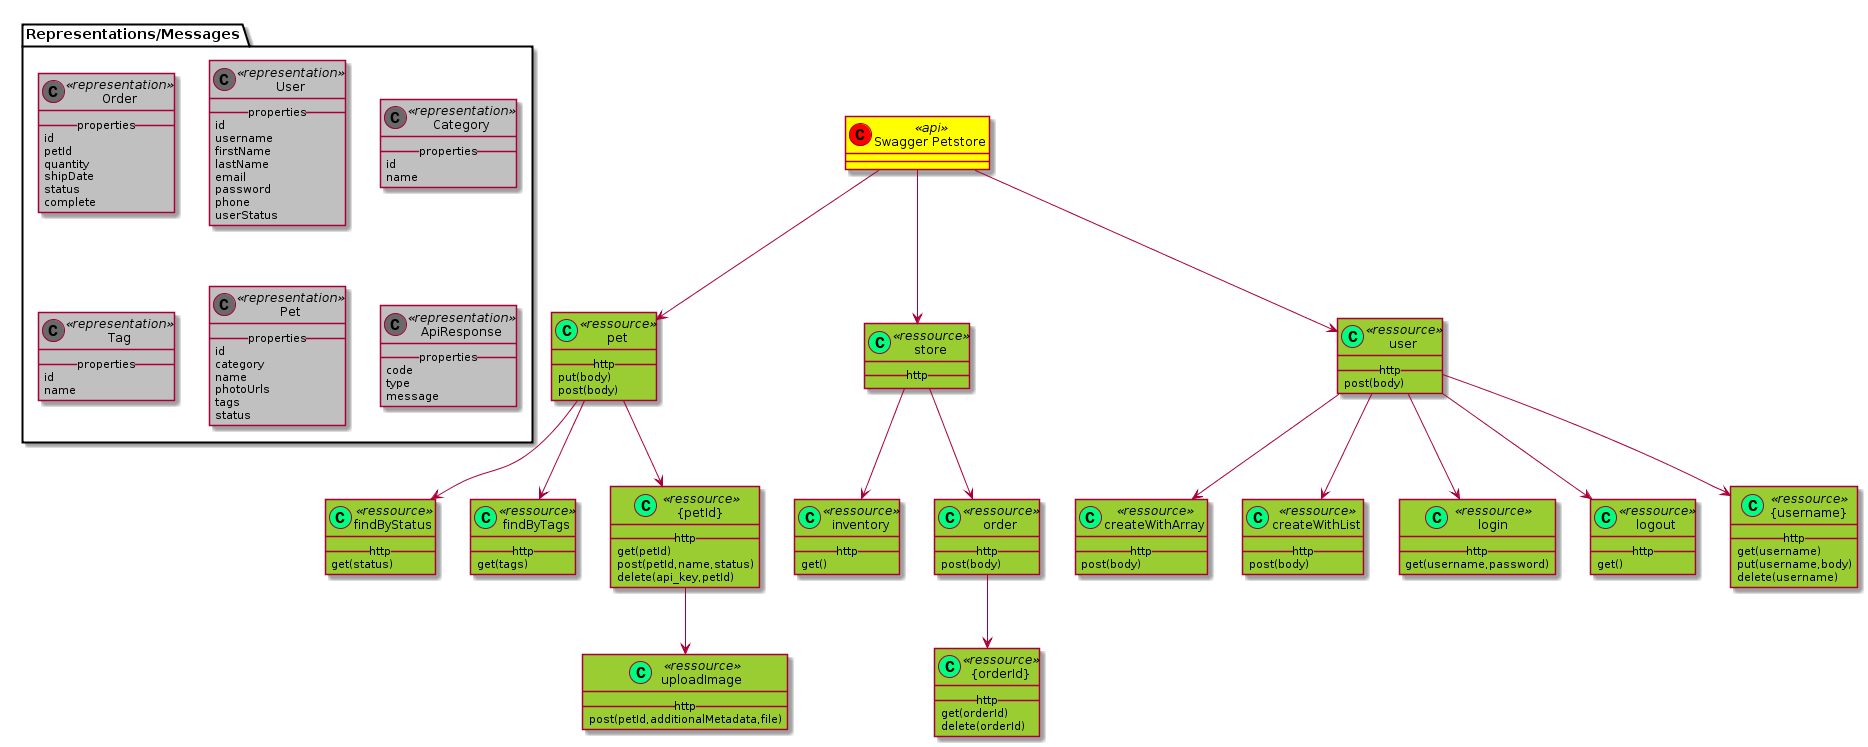
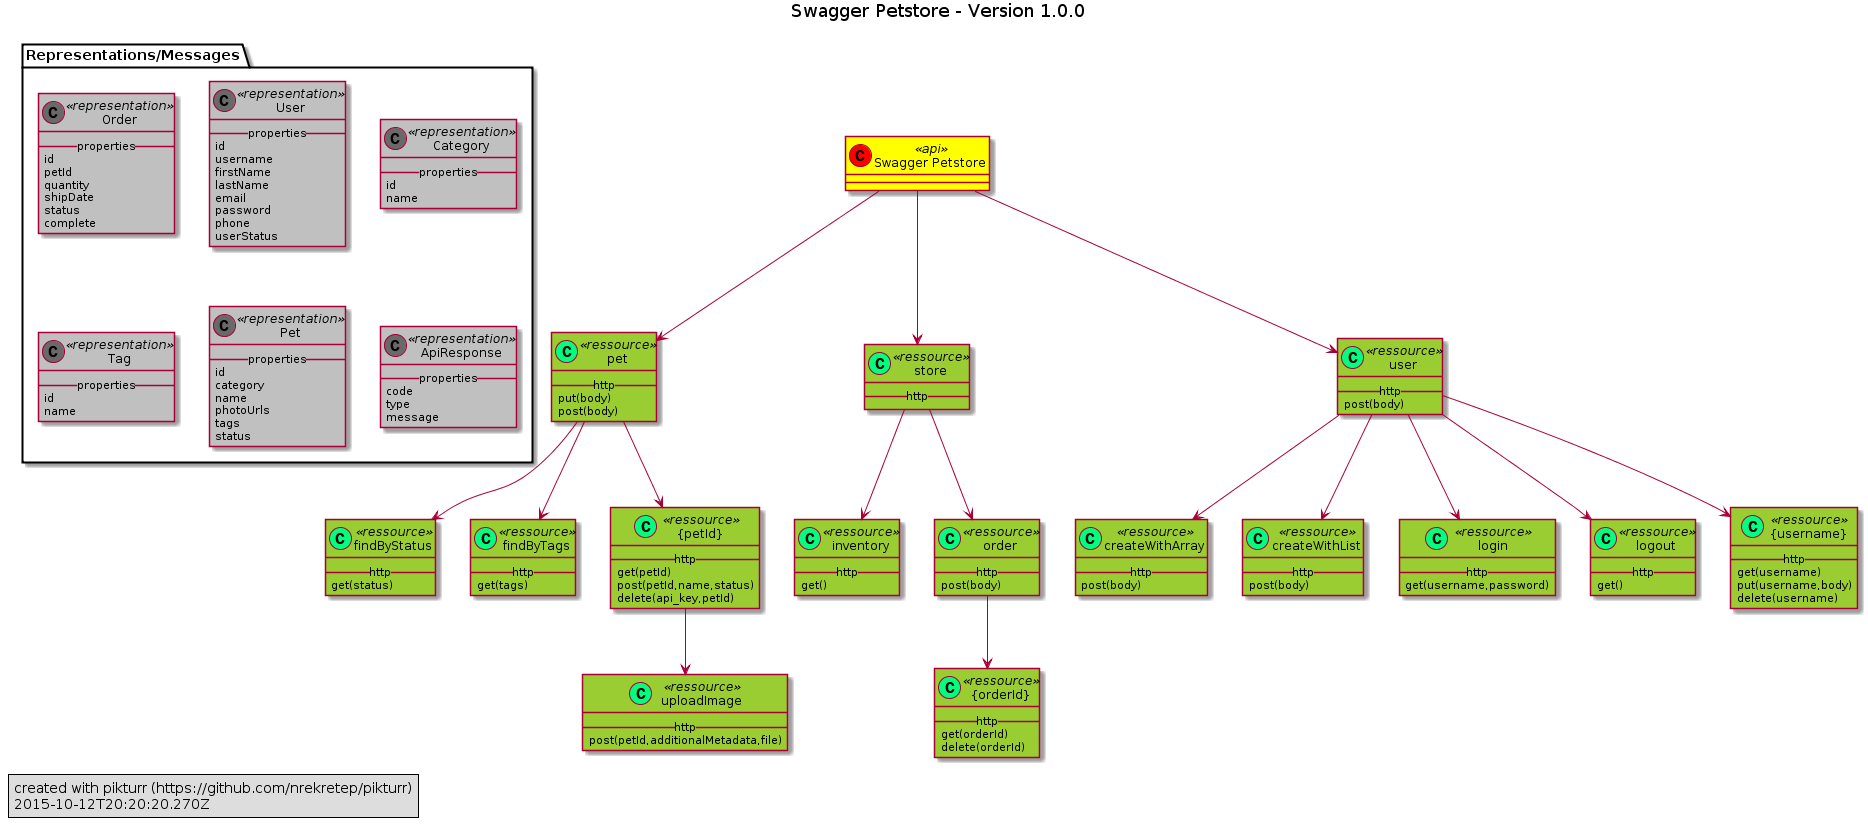
Added a title and a legend to the diagram.

diff --git a/app.js b/app.js
@@ -8,6 +8,11 @@ function plant_writeStartUml()
     return '@startuml\n\n';
 }
 
+function plant_writeTitle(apiTree, pc)
+{
+    return pc + 'title ' + apiTree.title + ' - Version ' + apiTree.version + '\n\n';
+}
+
 function plant_writeEndUml(pc)
 {
     return pc + '@enduml\n';
@@ -81,6 +86,7 @@ function extractApiData(api, cb){
     var ressourceTree = {};
     ressourceTree.ressources = {};
     ressourceTree.title = api.info.title;
+    ressourceTree.version = api.info.version;
 
     for(var p in api.paths) {
         if(api.paths.hasOwnProperty(p)){
@@ -177,12 +183,26 @@ function plant_writeSkinParams(pc){
     return s;
 }
 
+function plant_writeLegend(apiTree, pc) {
+    var s = pc;
+    var d = new Date();
+    d.setHours(d.getHours()+ 2);
+    s += 'legend left\n';
+    s += 'created with pikturr (https://github.com/nrekretep/pikturr)\n';
+    s += d.toISOString() + '\n';
+    s += 'endlegend\n\n';
+
+    return s;
+}
+
 function convertToPlantUml(apiData) {
     var s = plant_writeStartUml();
+    s = plant_writeTitle(apiData, s);
     s = plant_writeSkinParams(s);
     s = plant_writeApiClass(apiData, s);
     s = plant_writeRessourceClasses(apiData, s);
     s = plant_writeRepresentationClasses(apiData, s);
+    s = plant_writeLegend(apiData, s);
     s = plant_writeEndUml(s);
 
     var gen = plantuml.generate(s, {format: 'png'});
